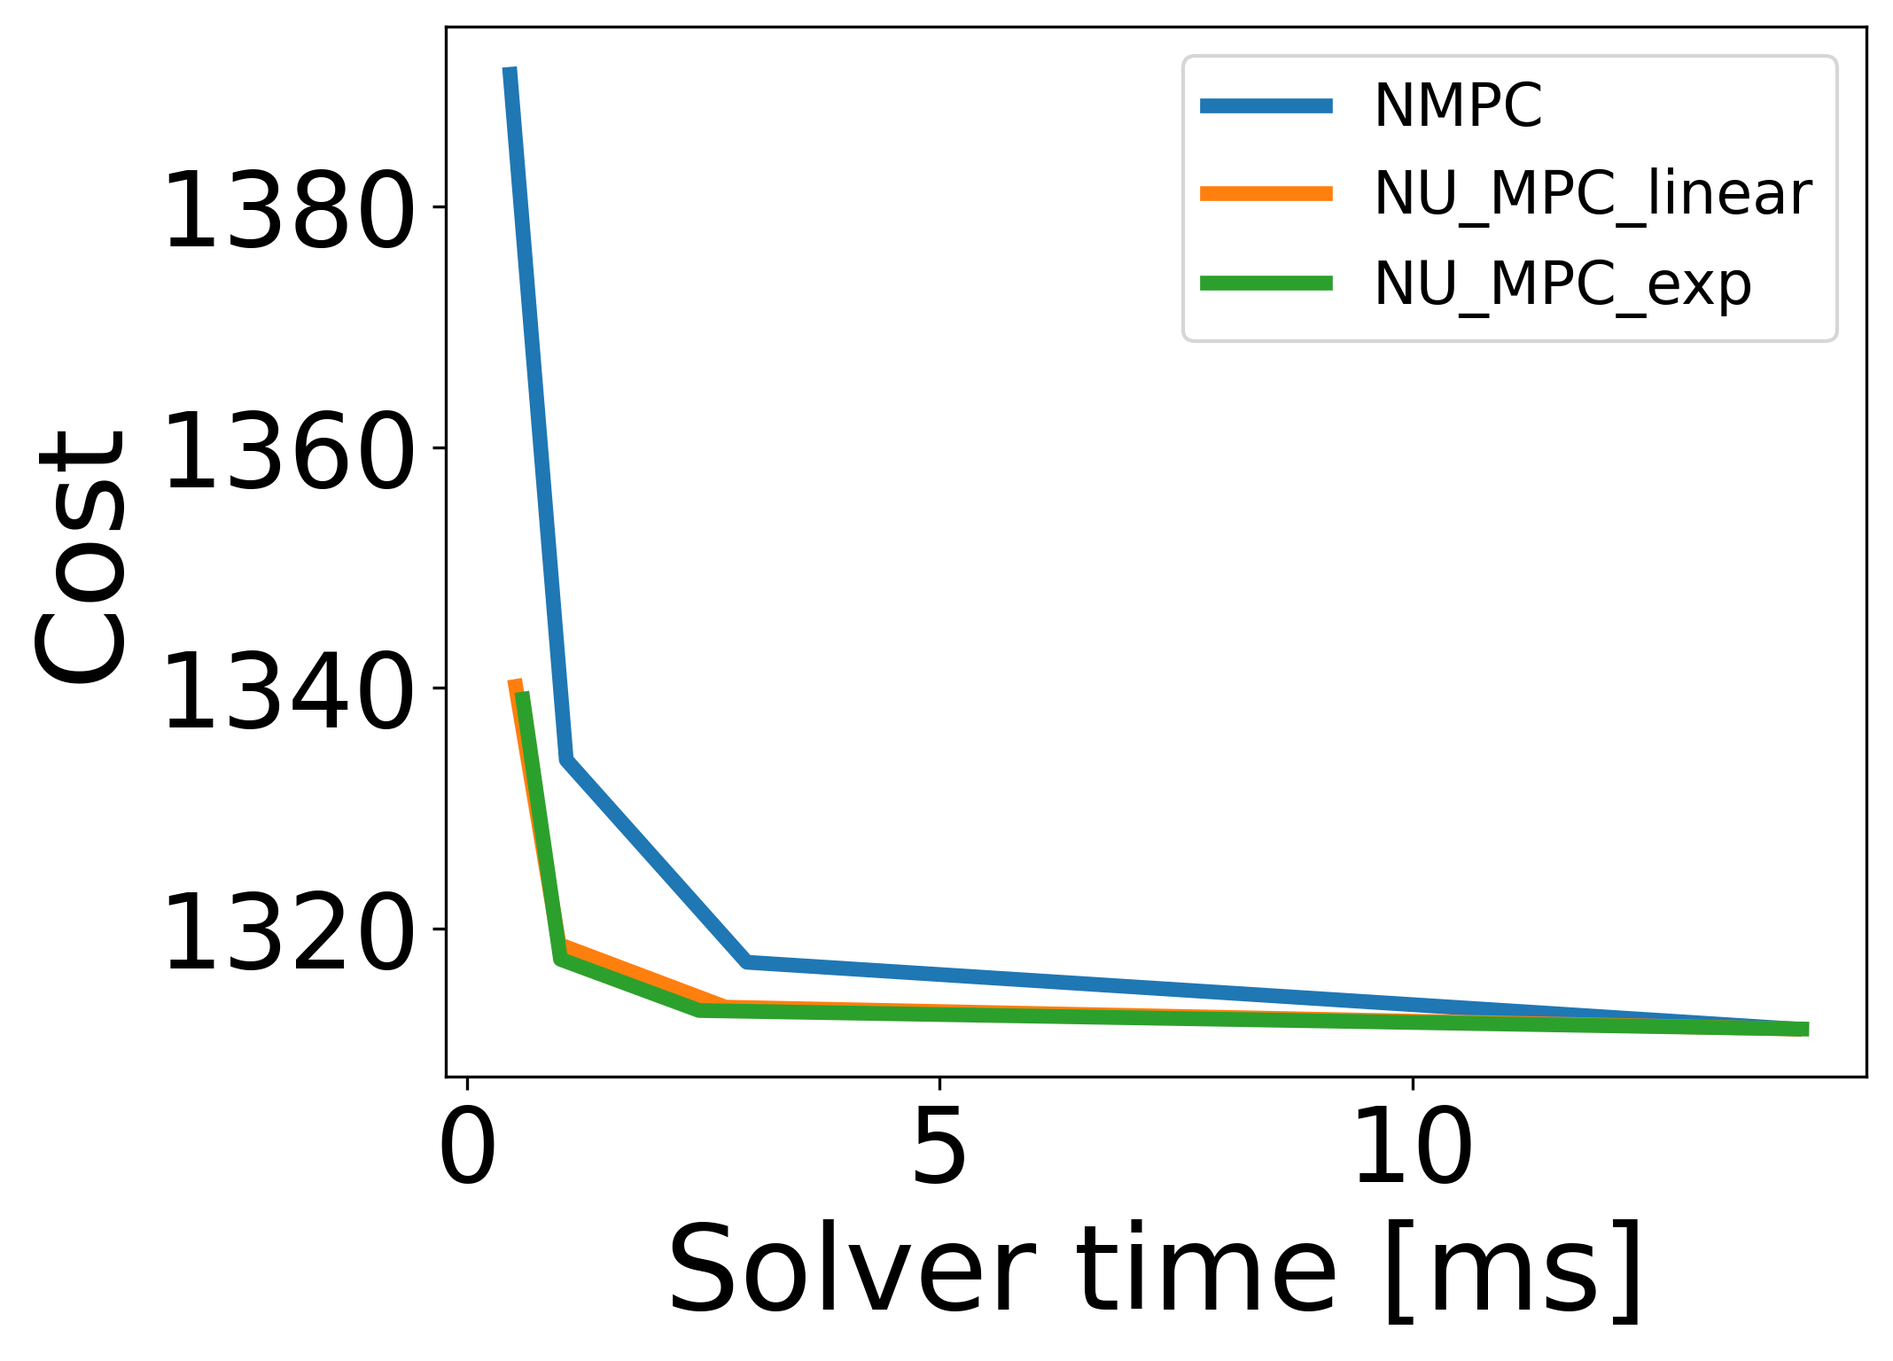
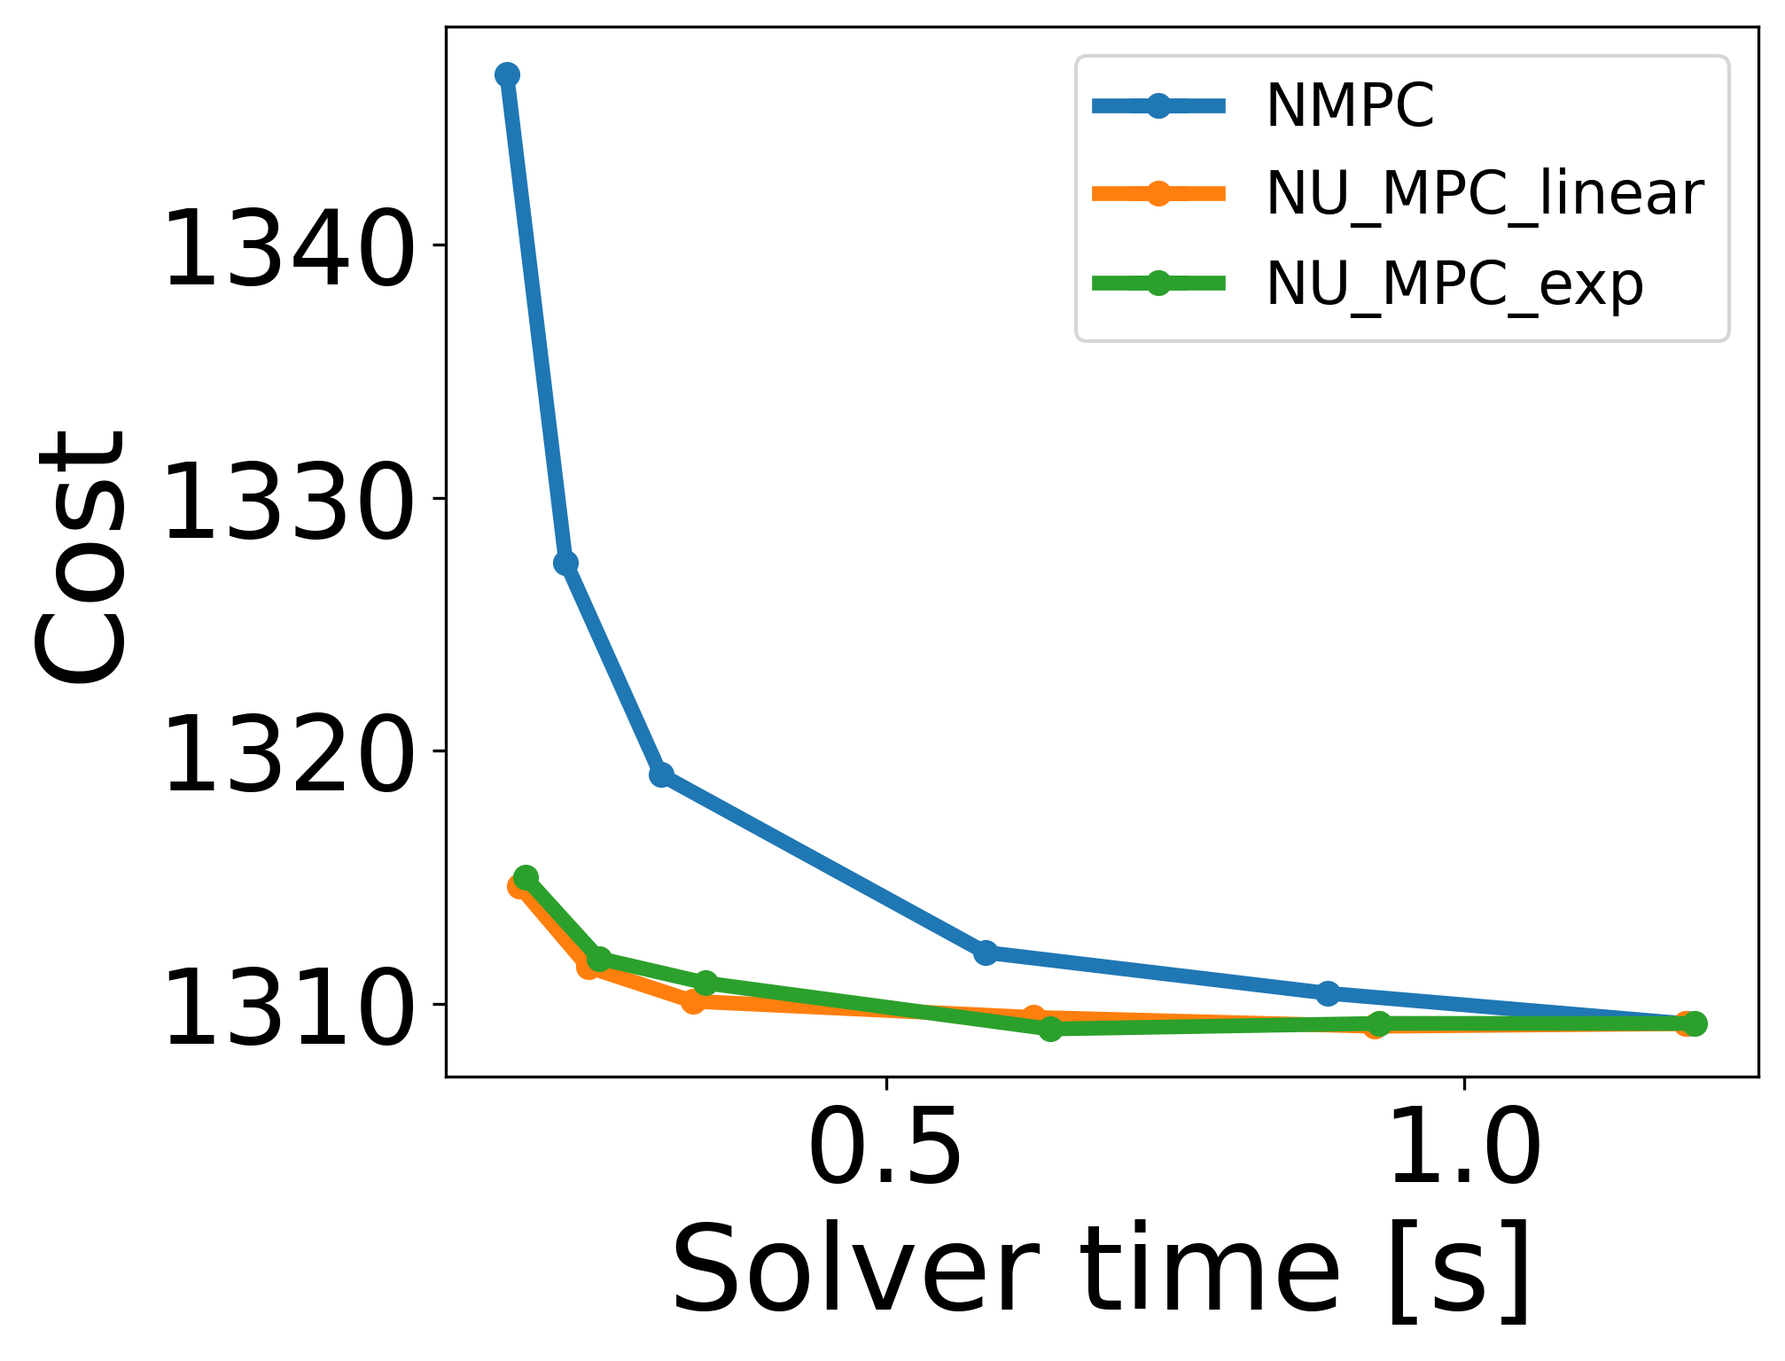
Final touches

diff --git a/_posts/2024-08-07-variable-timestep-mpc.md b/_posts/2024-08-07-variable-timestep-mpc.md
@@ -1,11 +1,18 @@
 ---
 layout: post
-title:  "On non-uniform timestepping in model predictive control"
+title:  "Initial tests with non-uniform discretization in model predictive control"
 #subtitle: "or: .."
 date:   2024-08-07 12:00:00 +0200
 permalink: /variable-dt-mpc/
 categories: mpc science
 ---
+
+<p class="preface">
+The model predicitve control you learn about during your studies is always presented with a uniform discretization.
+Ever since I learned about MPC, I was wondering if the whole thing would not be much more efficient by using a variable timestep.
+This can be motivated quite simply: We only need to be accurate for the timestep we are applying in the next control update.
+In general, the rest is only there to get some intuition on what happens after, and - at least intuitively - does not have to be as accurate.
+</p>
 
 Model predictive control is a control method that uses a model to predict what will happen in the future.
 With this prediction, one can find the best control input for some user-defined objective function.
@@ -13,10 +20,7 @@ When implementing this, there is always a trade-off between how much control aut
 Common wisdom is that we would like to have a prediction that goes into the future as far as possible, but we would also like to have a very good prediction accuracy.
 This is computationally not feasible.
 
-The model predicitve control you learn about during your studies is always presented with uniform timestepping.
-Ever since I learned about MPC, I was wondering if the whole thing would not be much more efficient by using a variable timestep.
-This can be motivated quite simply: We only need to be _really_ accurate for the timestep we are applying in the next control update.
-In general, the rest is only there to get some intuition on what happens after, and - at least intuitively - does not have to be as accurate.
+We'll have a look here if the approach outlined above (not discretizing the MPC problem uniformly) can somehow combine the goals of being accurate while also being computationally efficient, and therefore either give better solutions, or give similar solutions at lower copmutational cost.
 
 Code for everything can be found [here](https://github.com/vhartman/nu-nmpc/tree/master).
 
@@ -90,9 +94,9 @@ Compared to this more or less standard formulation, I want to have a look at
 
 $$
 \begin{align}
-u^* = & \min_{x, u} j_N(x_N) + \sum_i^{N-1} \Delta t_i j(x_i, u_i)\\
+u^* = & \min_{x, u} j_N(x_N) + \sum_i^{N-1} \color{red}{\Delta t_i} j(x_i, u_i)\\
 \text{s.t.} \ \ & x_0 = x(0)\\
-&x_{t+i} = x_i + \Delta t_i f(x_i, u_i) \\
+&x_{t+i} = x_i + \color{red}{\Delta t_i} f(x_i, u_i) \\
 & x_i\in \mathcal{X},  u_i \in \mathcal{U}\\
 & x_i\leq g(x_i, u_i)
 \end{align}
@@ -100,9 +104,10 @@ $$
 
 which is virtually the same, except that there is the index $$i$$ on the timestep $$\Delta t$$, and the stage-cost is scaled by the magnitude of the timestep.
 
-Of course, this variable timestepping approach could be implemented in any optimal control setting with a receding horizon such as vanilla MPC, dynamic programming approaches, or MPPI (model predictive path integral control){% include sidenote.html text='It is more questionable if this works well for MPPI, since we do not do traditional optimization here which scales with the number of desicion variables. It could work well, as it still reduces the size of the decision space.'%}{% include sidenote.html text='It might even be advantageous in some settings of a trajectory optimization setting to not use completely uniform discretizations.'%}.
+Of course, this variable timestepping approach could be implemented in any optimal control setting with a receding horizon such as vanilla MPC, dynamic programming approaches, or MPPI (model predictive path integral control){% include sidenote.html text='It is more questionable if this works well for MPPI, since we do not do traditional optimization here where the compute time scales with the number of decision variables. It could work well, as it still reduces the size of the decision space.'%}{% include sidenote.html text='It might even be advantageous in some settings of a trajectory optimization setting to not use completely uniform discretizations.'%}.
 
-In this post, I will have a look at an iLQR implementation, and a MPC implementation with variable timesteps.
+In this post, I will have a look at a MPC implementation with variable timesteps.
+In the code, there is also an iLQR controller and an MPPI controller with variable timesteps, but I did not properly benchmark it.
 
 #### Related work
 I always assumed that something similar to what I had in mind here must already have been done _somewhere_, but maybe its just not the thing that the academic community is interested in?
@@ -126,8 +131,7 @@ There were two more papers that I could find that go in a similar direction, alb
 - [A Variable-Sampling Time Model Predictive Control Algorithm for Improving Path-Tracking Performance of a Vehicle](https://www.mdpi.com/1424-8220/21/20/6845)
 - [Variable Sampling MPC via Differentiable Time-Warping Function](https://arxiv.org/abs/2301.08397)
 
-The objective in those papers seems to be an increased accuracy, not a decreased computational cost though.
-
+The objective in those papers seems to be an increased accuracy, not a decreased computational cost though, but I would not be surprised if this approach could also be used to obtain better performing controllers at a specific compute budget.
 
 # Experiments
 
@@ -150,15 +154,16 @@ To test the variable timestepping approach, I will have a detailed look at two p
   <figcaption>The dot indicates the top of the quadrotor.</figcaption>
   </div>
 
-#### What are we actually testing?
+#### Experiments
 
 We are interested in figuring out if we can save time in our MPC controllers while keeping the performance approximately the same via variable timestepping.
 Thus, what we test is an MPC controller with various numbers of timesteps $$N$$ with a non-uniform discretization, and plot the computation time and the quality (cost) of the solution.
-We compare these non-uniform discretizations to a constant discretization with the same number of timesteps.
-Note that this leads to larger timesteps in the beginning directly.
+We compare these non-uniform discretizations to a constant discretization with the same number of timesteps{% include sidenote.html text="Note that this leads to larger timesteps in the beginning directly, and would need to be dealt with specifically in some cases when deploying to a robot."%}.
 
 What we would expect (hope to get) is something like a pareto optimality front, where the non-uniform discretization hopefully has the lowest cost at a given compute time, respectively has the lowest compute time at a given cost.
 This would allow us to fairly seamlessly trade off computation time and solution quality.
+
+**Discretization strategies**
 
 In order to isolate the compute time (which we want to analyze) from other effects, we'll fix the prediction horizon length. 
 In this first experiment, we'll test two different discretization strategies, namely a linearly incresing one, and a exponentially increasing one. That is, our timestep for the the linearly increasing approach is
@@ -176,8 +181,14 @@ $$
 $$
 
 with a similar constraint as before, which can again be (this time iteratievely) solved for alpha.
+Compared to these two discretization strategies, we have the uniform approach, where 
 
-As mentioned above, we run{% include sidenote.html text="We'll run each experiment multiple times in order to ensure that we get sensible compute times, and not just one off results. We then plot the median compute time and cost in addition to the uncertainty."%} the controller{% include sidenote.html text="For all the gory details of the implementation, please have a look at the implementation."%} on a given system - for now without noise - and plot the open loop cost of the resulting trajectory against the computation time that the controller took.
+$$
+\Delta t_i = \frac{T_{pred}}{N}
+$$
+
+#### What are we actually testing?
+As mentioned above, we run{% include sidenote.html text="We'll run each experiment multiple times in order to ensure that we get sensible compute times, and not just one off results. We then plot the median compute time and cost in addition to the uncertainty."%} the controller{% include sidenote.html text="For all the gory details of the implementation, please have a look at the code."%} on a given system - for now without noise - and plot the open loop cost of the resulting trajectory against the computation time that the controller took.
 Importantly, as compute time, we use the time that the solver took - that is, we ignore that more timesteps also need more time for linearization of the system dynamics.
 Before running this experiment on the systems introduced above, we run the MPC controllers on the masspoint example that we used as motivation:
 
@@ -193,48 +204,83 @@ Continuing with the cartpole system and the quadcopter looks like so:
 <div style="width: 90%;margin:auto; text-align: center;">
   <img src="{{ site.url }}/assets/nu_mpc/cartpole_cost_comp.png" style="width:46%; padding: 10px">
   <img src="{{ site.url }}/assets/nu_mpc/quadcopter_cost_comp.png" style="width:46%; padding: 10px">
+  <figcaption>Left is the cartpole system, right is the quadcopter.</figcaption>
 </div>
+<br>
 
-We clearly see what we hoped to see, and apparently get savings of up to 80% percent in computation time, while staying relatively close to the 'optimal' solution that we get with a fine constant time discretization.
+In general, we clearly see what we hoped to see, and apparently get savings of up to 80% percent in computation time, while staying relatively close to the 'optimal' solution that we get with a fine constant time discretization.
 
-Similar to the motivational experiment before, the cost differences that can be obtained are not _huge_ in these experiments.
-This can partially be ascribed to the fact that the systems are still relatively simple.
-However, in the cartpole experiment, we can also see a nice demonstration of the non-uniform discretization: Controllers with a lower compute time (~50% of the uniformly discretized) MPC controller still find a solution, and achieve a good cost.
+One thing to point out here is that the unifom discretization fails for a low number of discretization points, while the non-uniform discretization still finds solutions even at very coarse discretizations.
+In the cartpole experiment, we can also see a nice demonstration of the non-uniform discretization: Controllers with a lower compute time (~50% of the uniformly discretized) MPC controller still find a solution, and achieve a good cost.
 Compared to that, all solutions with a cost >1000 do not find a solution, and do not manage to control the cart pole system to the instable equilibrium at the top.
 
 It does appear like there is a slight difference in choice of non-uniform discretization, namely the linear slightly outperforming the exponential approach.
 However, the difference is small and might very well be noise.
 
 #### A brief look at a more complex system
-After these quantitative tests, I want to have a look at steering a racecar around a racetrack using model predictive contouring control (MPCC).
+After these quantitative tests, I want to have a look at steering a racecar around a racetrack using model predictive contouring control ([MPCC](https://arxiv.org/abs/1711.07300)).
 
 The dynamics of the racecar are taken from here, and are approximated by the bycicle model.
 The state is 8 dimensional, and the input has two dimensions.
 As MPCC introduces additional states and inputs, the resulting system is 10 dimensional, with three input states.
 
-The racetrack also has boundaries that we will introduce by enforcing a maximum distance between the middle line and the center of the car.
+The racetrack - for now a simple figure 8 - also has boundaries that we will introduce by enforcing a maximum distance between the middle line and the center of the car.
 The constraints are then velocity constraints, acceleration constraints, and the track constraints.
-A possible solution looks like this:
-<div style="width: 90%;margin:auto; text-align: center;">
-  <img src="{{ site.url }}/assets/nu_mpc/racecar_sol.gif" style="width:75%; padding: 10px">
+Possible solutions look like this:
+  <div style="width: 90%;margin:auto; text-align: center;">
+  <div style="width: 150%; margin-left: 50%; transform: translateX(-50%); text-align: center;">
+    <img src="{{ site.url }}/assets/nu_mpc/amzracecar_animation_fig8_short_crop.gif" style="width:45%; padding: 10px">
+    <img src="{{ site.url }}/assets/nu_mpc/amzracecar_animation_fig8_crop.gif" style="width:45%; padding: 10px">
+  </div>
+  <figcaption>On the left, we have a prediction horizon of T=0.5s, where on the right we have a horizon of T=1s.</figcaption>
+<br>
 </div>
-Here, the rectangle is the car, and the blue line is the predicted path at that time-instant.
+Here, the grey line is the reference path, the black lines are the track constraints, the rectangle is the car, the blue line is the predicted path at that time-instant, the orange line is the path the car took, and the blue dot is the projection of the car onto the reference path.
 
-The setting we consider now for designing a controller is one where we assume that we have a fixed compute budget allocated for a controller.
-We then want to find the controller that stays in this compute budget, and minimizes some cost functional. 
-In our case, the cost is the minimization of the laptimes while staying in the track limits.
-Our two parameters to choose are then the discretization timestep and the prediction horizon.
+As before, we fix the prediction horizon, so that the parameter to look at is the number of discretization timesteps.
+In our case, the cost is the minimization of the laptimes while staying in the track limits, which we hope to achieve with the MPCC controller.
 
+Of course, we could also vary the prediction horizon to see if a different combination of $$(N, T_{pred})$$ might yield better results than the one we are looking at here.
+However, I decided that this is out of scope.
+Additionally, I do believe that even if a different tuple $$(N, T_{pred})$$ would give better results for the uniform discretization, the non-uniform discretization should still yield better results overall.
 
-Below, we plot{% include sidenote.html text="For the sake of plotting, we'll assume that the car will follow the track in any case reasonably well, but to be sure, we'll double check track violations."%} the lap times for a grid search over discretization timesteps and number of timesteps in the prediction horizon for the uniform controller, and the two non-uniform discretization strategies.
+Since we are not directly minimizing lap time using the MPCC controller, but rather the surrogate function 'maximize progress', only looking at the laptime as quality criterion can be misleading{% include sidenote.html text='In an ideal world, we would look directly at the cost we are actually trying to minimize for comparison, but I am too lazy to implement this for the MPCC controller.'%}.
+Thus, we also take into account that different controllers might violate constraints at different rates, and plot both laptimes and contraint violations against the computation time.
 
+<div style="width: 90%;margin:auto; text-align: center;">
+  <img src="{{ site.url }}/assets/nu_mpc/amzracecar_laptimes_comp_fig8.png" style="width:46%; padding: 10px">
+  <img src="{{ site.url }}/assets/nu_mpc/amzracecar_violations_comp_fig8.png" style="width:46%; padding: 10px">
+</div>
+
+Here, it is not as clear to me that the non-uniform discretization is overall better than the standard uniform discretization.
+While the non-uniform discretization is better on not violating the constraints, the uniform discretization leads to lower laptimes.
+These are clearly directly related, and it might be an interesting experiment to increase the penalties for the constraints (respectively implement them properly and see what happens).
+
+Finally, we run the racecar on the same racetrack as in the original paper from [Alex Liniger](https://github.com/alexliniger/MPCC/tree/master):
+<div style="width: 90%;margin:auto; text-align: center;">
+  <div style="width: 150%; margin-left: 50%; transform: translateX(-50%); text-align: center;">
+    <img src="{{ site.url }}/assets/nu_mpc/amzracecar_animation_race_short_crop.gif" style="width:45%; padding: 10px">
+    <img src="{{ site.url }}/assets/nu_mpc/amzracecar_animation_race_crop.gif" style="width:45%; padding: 10px">
+  </div>
+  <figcaption>On the left, we have a prediction horizon of T=0.5s, where on the right we have a horizon of T=1s.</figcaption>
+<br>
+</div>
+
+We again plot the same things as we did above for the racecar (with a prediction horizon of T=1s):
+
+<div style="width: 90%;margin:auto; text-align: center;">
+  <img src="{{ site.url }}/assets/nu_mpc/amzracecar_laptimes_comp_race.png" style="width:46%; padding: 10px">
+  <img src="{{ site.url }}/assets/nu_mpc/amzracecar_violations_comp_race.png" style="width:46%; padding: 10px">
+</div>
+
+Interestingly, in this case, we see that the non-uniform discretization both leads to better laptimes, and a lower violation of the track constraints.
 
 # Conclusion & Outlook
 Looking at the results it is quite clear that one should not discretize the continuous control problem uniformly if one cares about performance.
 I think the specific way to discretize is up for discussion, but the experiments show quite convincingly that a compareable solution quality can be obtained with much less computational cost when using a non-uniform discretization.
 
 Further, the experiments suggest that there is a bigger advantage to use such a non-uniform discretization if the systems is operating at the boundary of the constraints, and needs to e.g. not exceed a positional constraint.
-Here, a larger lookahead is required, which can either be enabled by a larger discretization timestep (and sacrifice performance by doing so) or via non-uniform discretization (which seems to sacrifice less performance).
+Here, a larger lookahead is required, which can either be enabled by a larger discretization timestep (and sacrifice performance by doing so) or via non-uniform discretization which seems to sacrifice less performance in the experiments I made here.
 
 I think this can be partially explained by the fact that a longer discretization step can be seen as a lowpass filter on the control signal, thereby disallowing high frequency actions{% include sidenote.html text='This is an idea that I need to devote some more time to. Intuitively it feels right to say that a given discretization allows actions only below some frequency. There should be some connection between system performance and possible control frequency.'%}.
 If we have a system that requres high frequency actions sometimes, this non-uniform discretization is helpful.
